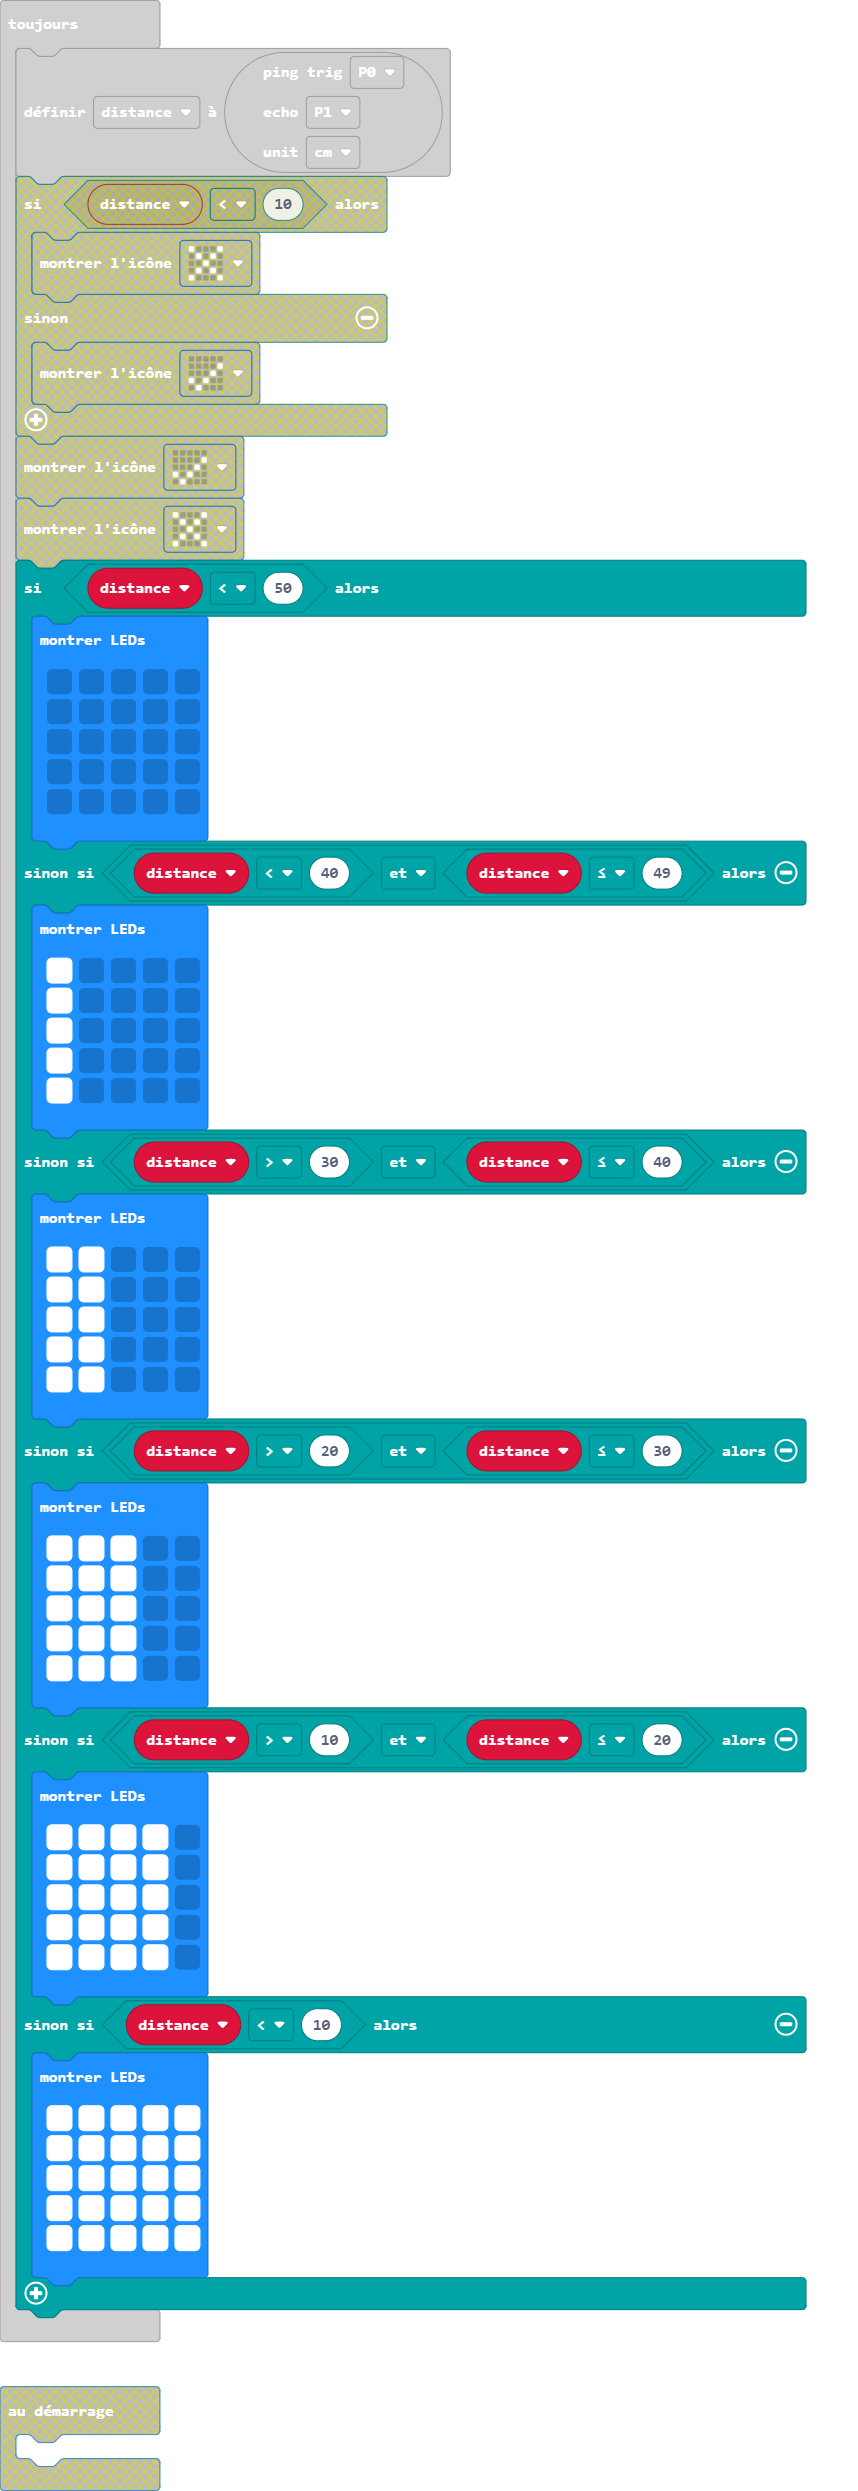
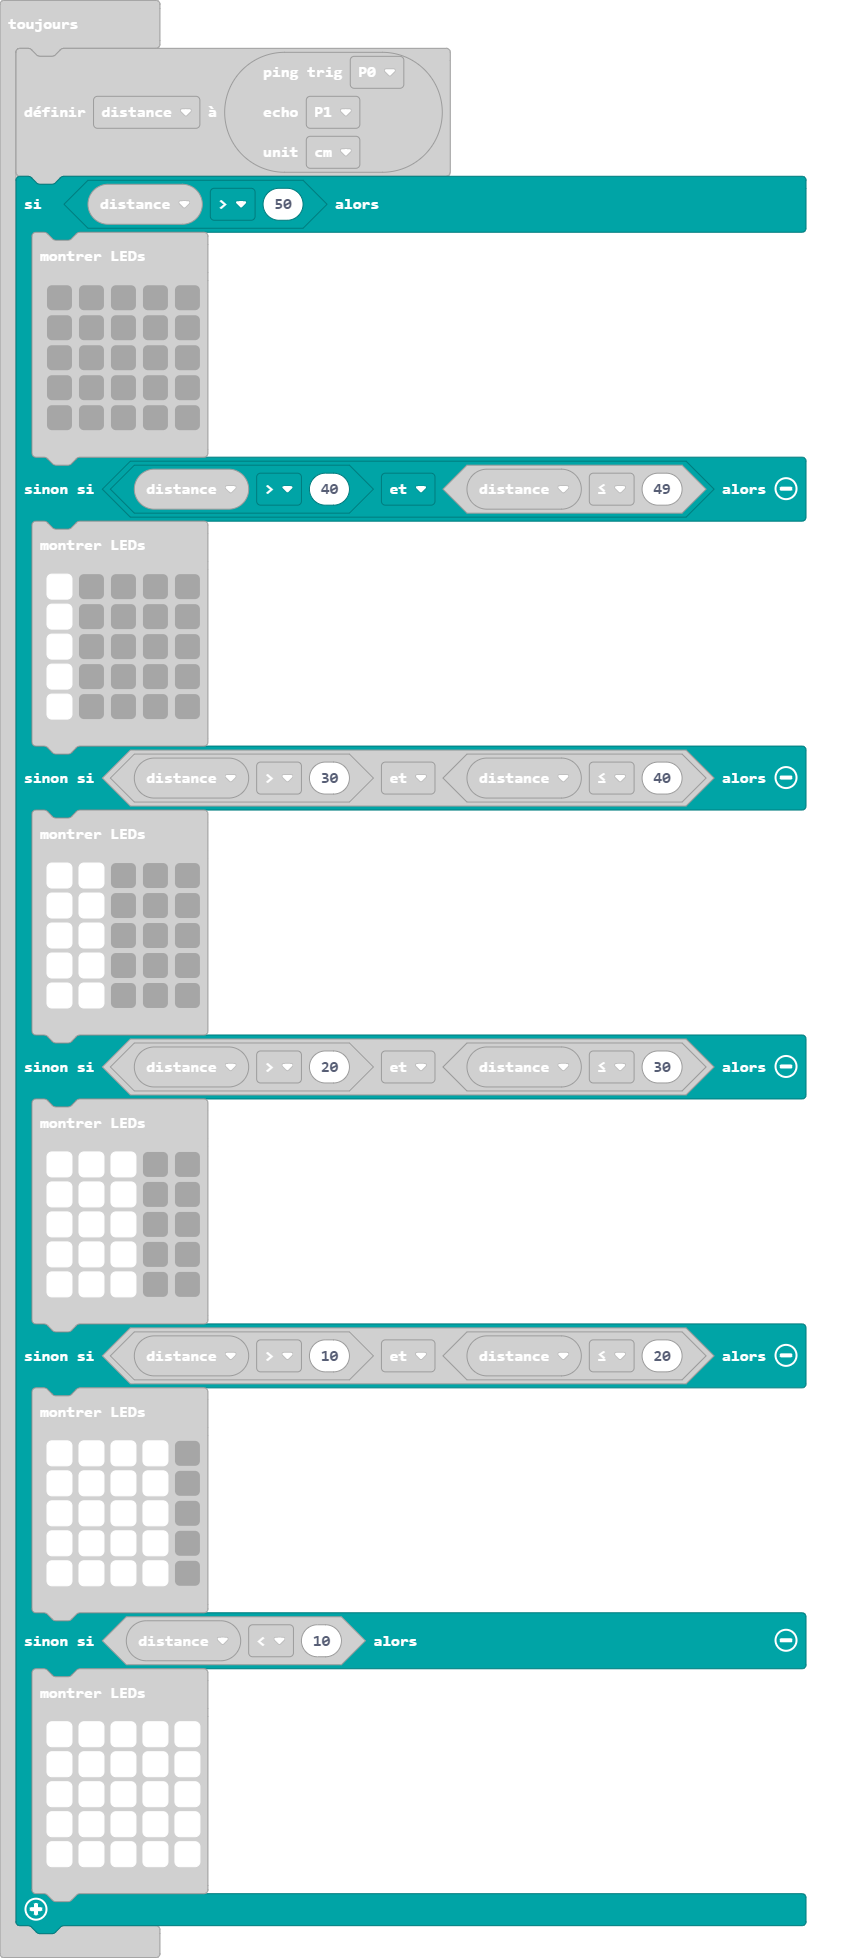
Mise à jour main.blocks, main.ts

diff --git a/main.ts b/main.ts
@@ -5,7 +5,7 @@ basic.forever(function () {
     DigitalPin.P1,
     PingUnit.Centimeters
     )
-    if (distance < 50) {
+    if (distance > 50) {
         basic.showLeds(`
             . . . . .
             . . . . .
@@ -13,7 +13,7 @@ basic.forever(function () {
             . . . . .
             . . . . .
             `)
-    } else if (distance < 40 && distance <= 49) {
+    } else if (distance > 40 && distance <= 49) {
         basic.showLeds(`
             # . . . .
             # . . . .
